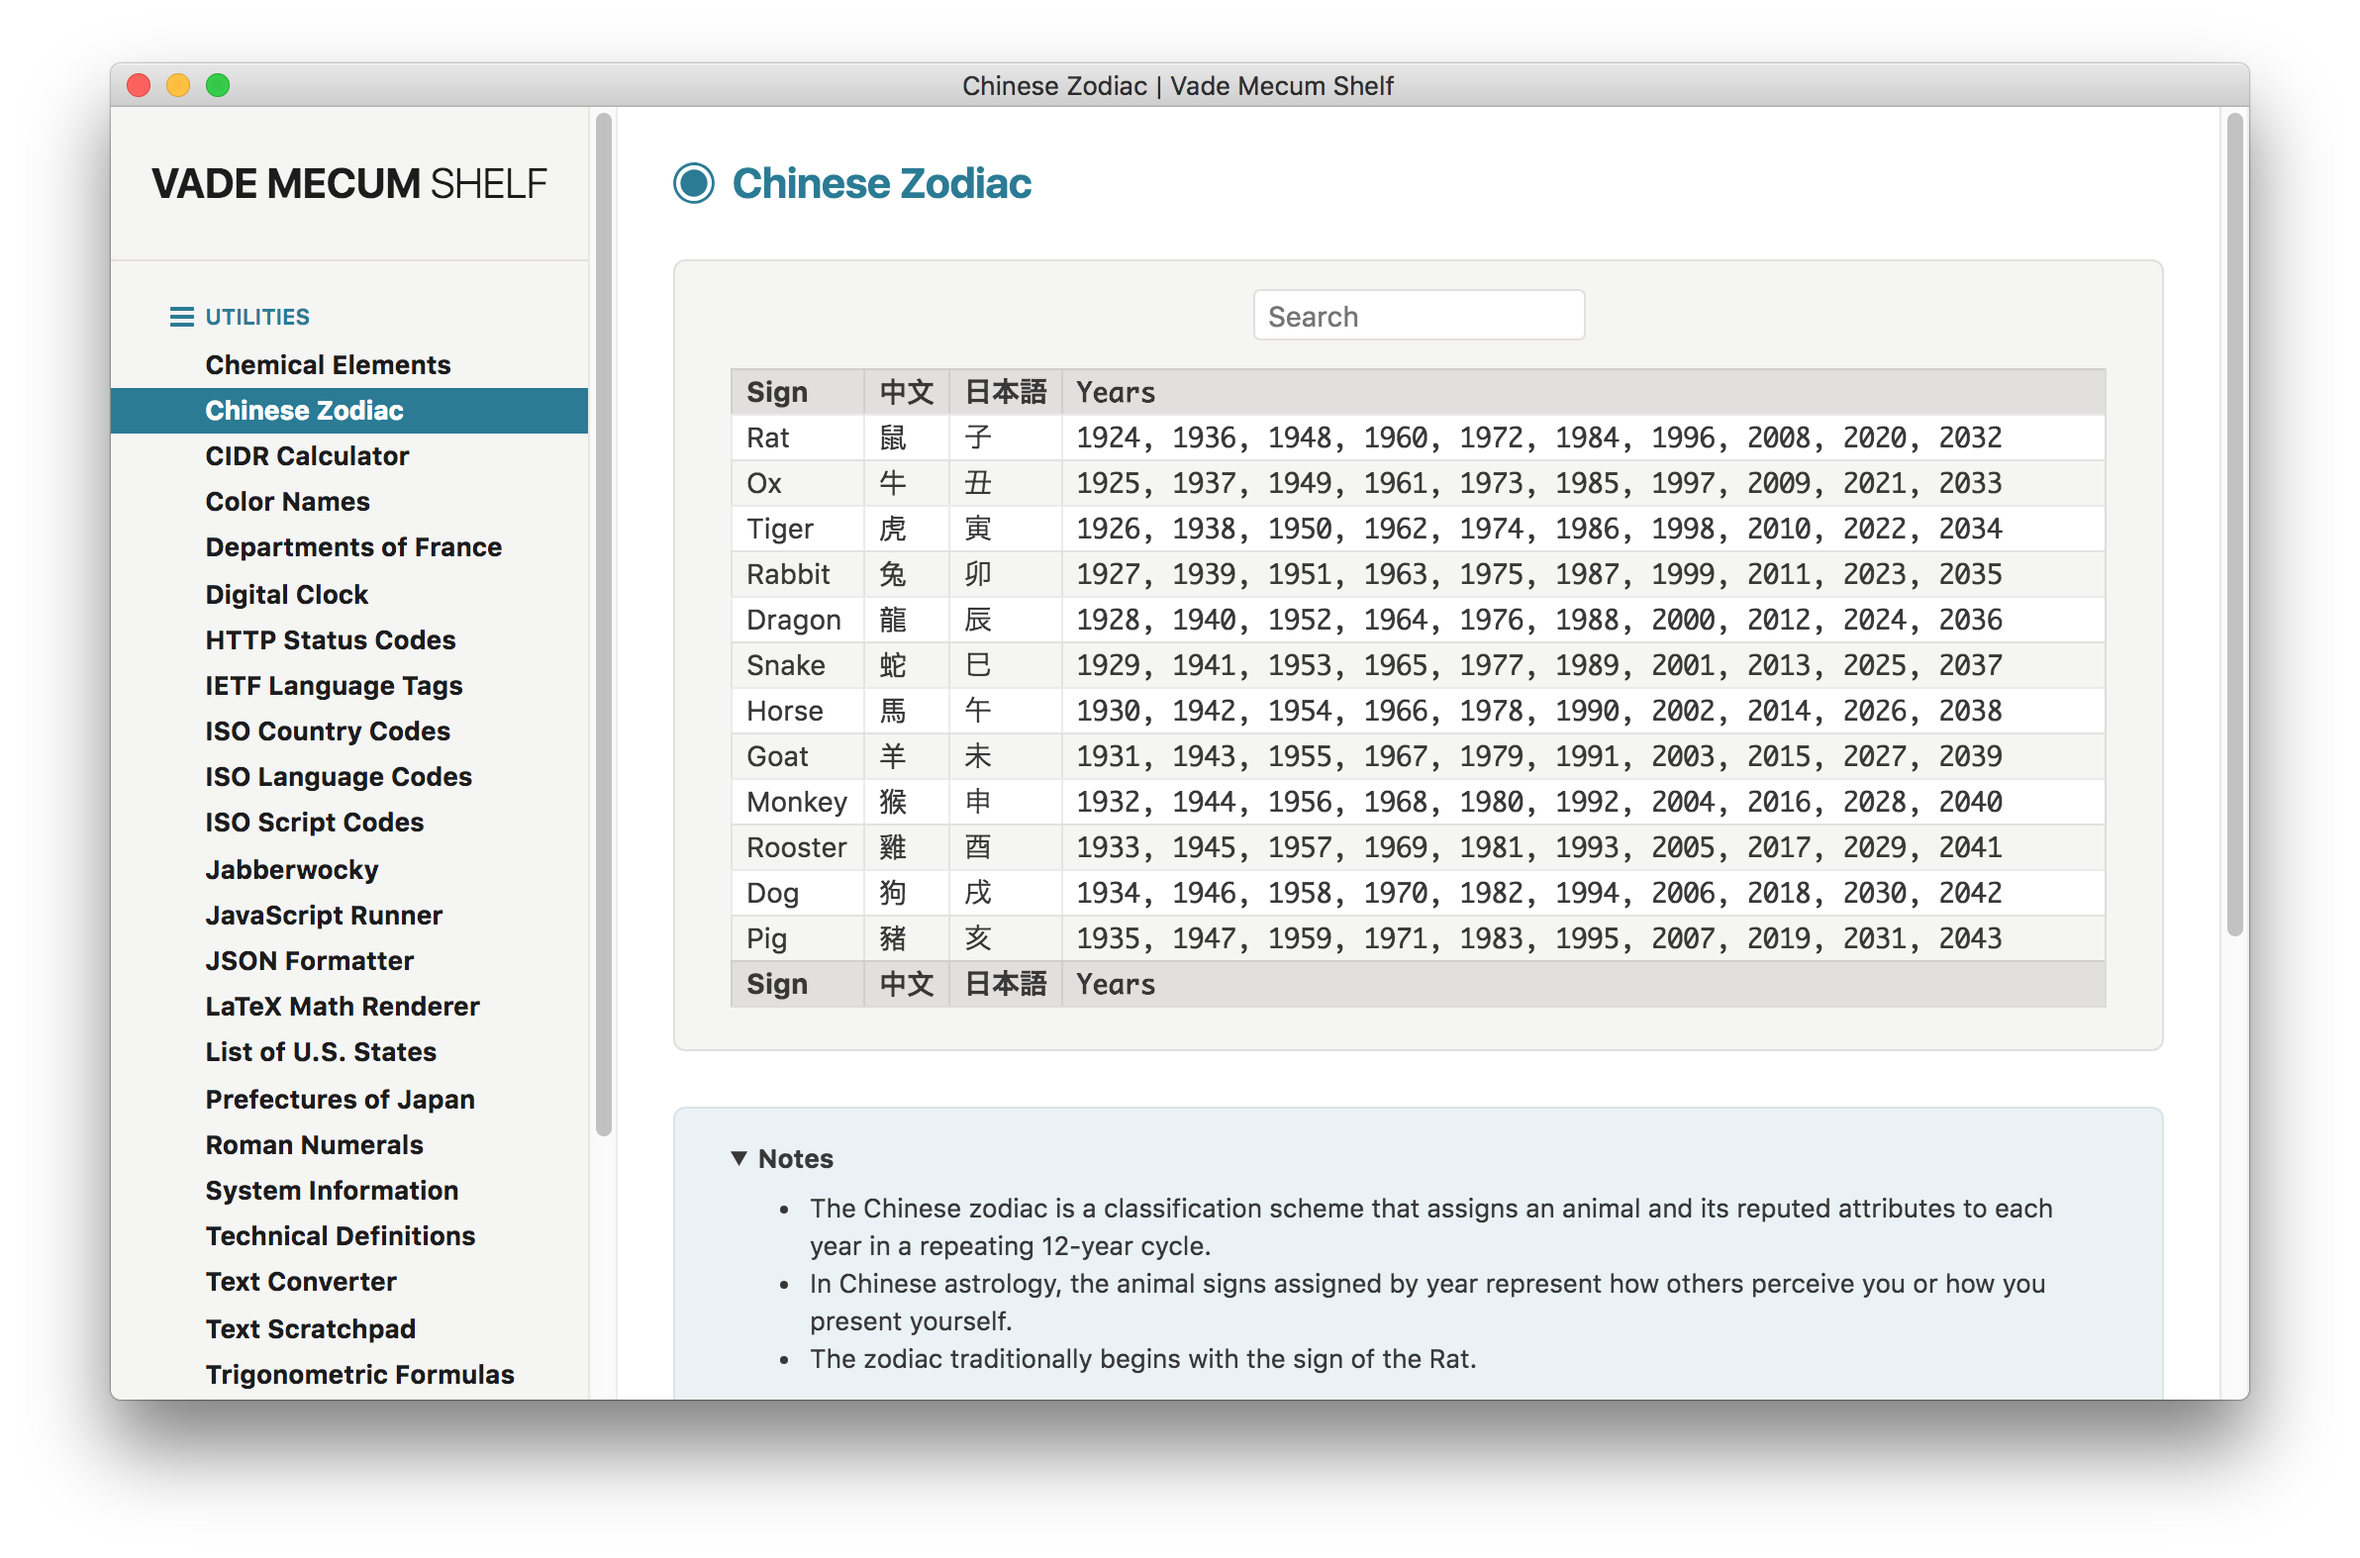
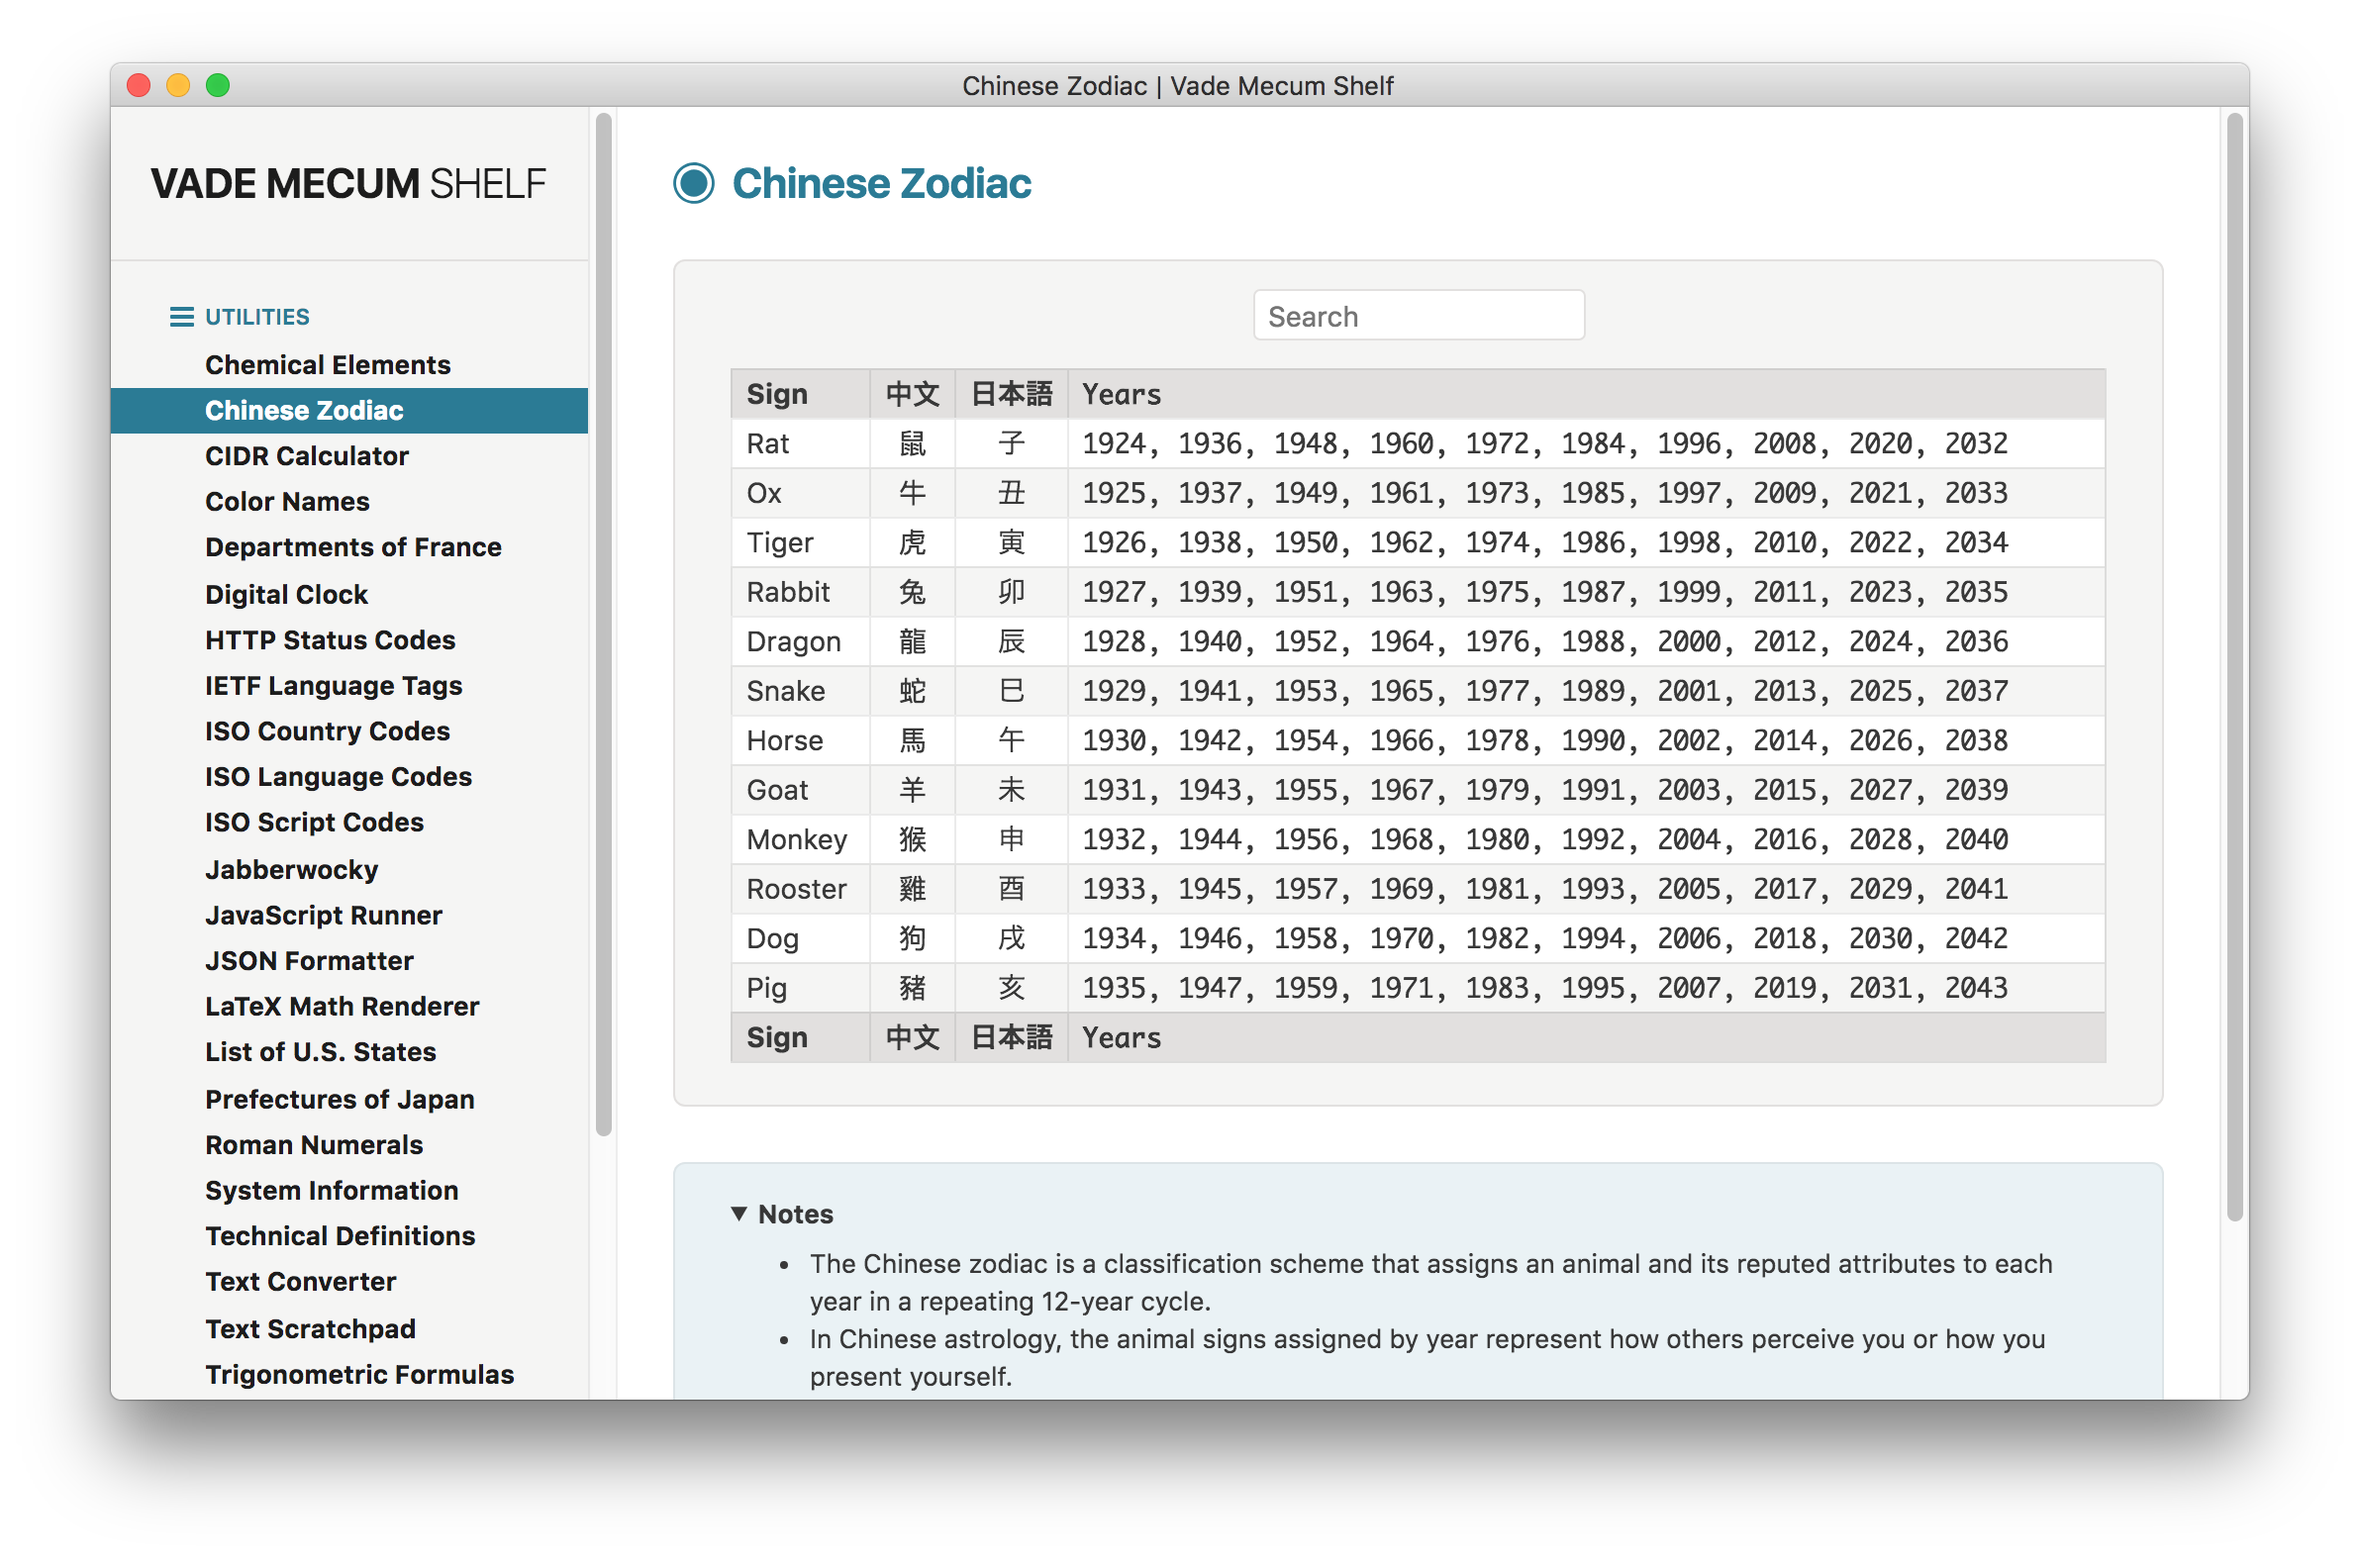
Improved Chinese zodiac table legibility

diff --git a/renderer/units/Chinese Zodiac/import.css b/renderer/units/Chinese Zodiac/import.css
@@ -46,26 +46,28 @@
 #chinese-zodiac-unit td,
 #chinese-zodiac-unit th
 {
-    padding: 0.1em 0.5em;
+    padding: 0.2em 0.5em;
     text-align: left;
 }
 
 #chinese-zodiac-unit th.english,
 #chinese-zodiac-unit td.english
 {
-    width: 6%;
+    width: 5em;
 }
 
 #chinese-zodiac-unit th.chinese,
 #chinese-zodiac-unit td.chinese
 {
-    width: 6%;
+    width: 3em;
+    text-align: center;
 }
 
 #chinese-zodiac-unit th.japanese,
 #chinese-zodiac-unit td.japanese
 {
-    width: 6%;
+    width: 3em;
+    text-align: center;
 }
 
 #chinese-zodiac-unit th.years,
